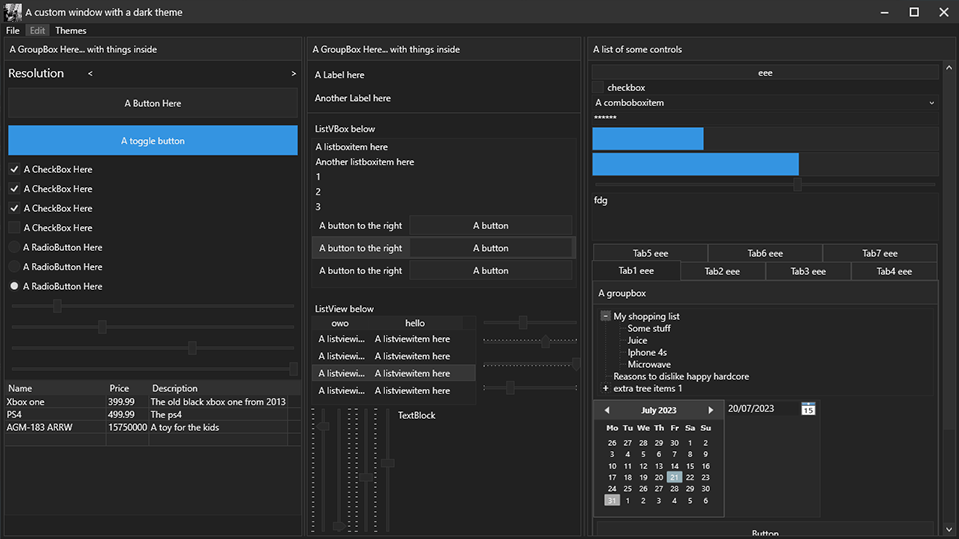
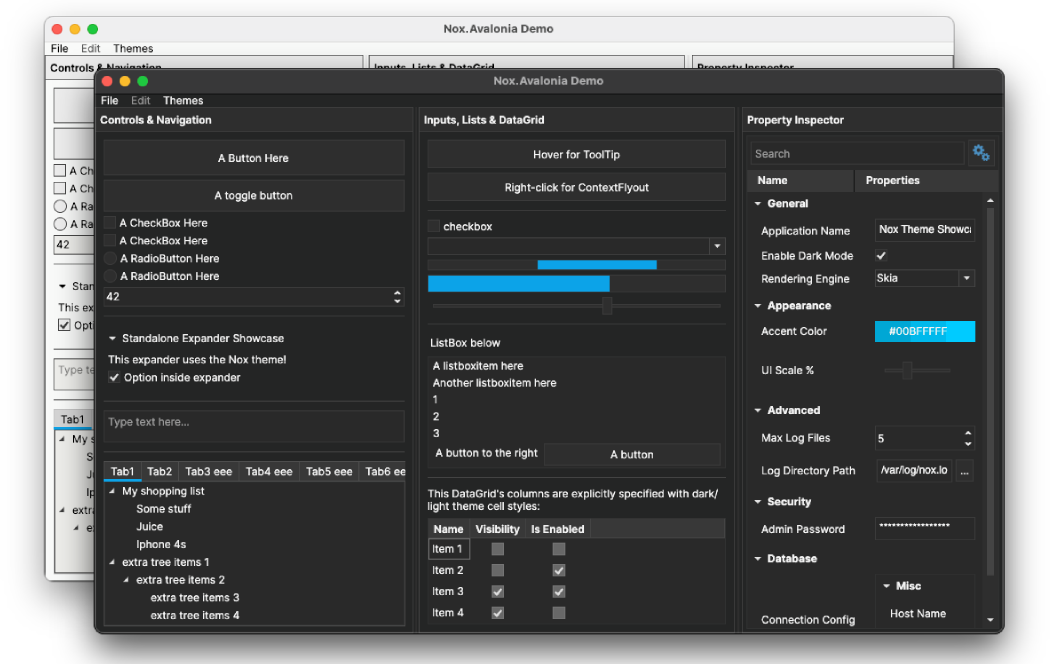
chore: update preview and library descriptions

diff --git a/README.md b/README.md
@@ -11,16 +11,23 @@
 </p>
 
 <p align="center">
-    A comprehensive, sleek, and modern dark theme for <b>Avalonia UI</b> applications!
+    A comprehensive, sleek, and modern theme for <b>Avalonia UI</b> applications!
     <br />
     Designed specifically for <b>Game Engines</b>, <b>Level & Asset Editors</b>, <b>IDEs</b>, and <b>Developer Tools</b>.
 </p>
 
 <p align="center">
-    <img src="preview.png" style="width: 95%;" />
+    <img src="preview.png" style="width: 100%;" />
 </p>
 
----
+### Packages Overview
+
+| Package Name                | Description                                        | Target Framework |
+| --------------------------- | -------------------------------------------------- | ---------------- |
+| `Nox.Avalonia`              | Core theme engine & standard controls              | `net10.0`        |
+| `Nox.Avalonia.Dock`         | Theme extension for `Dock.Avalonia`                | `net10.0`        |
+| `Nox.Avalonia.DataGrid`     | Theme extension for `Avalonia.Controls.DataGrid`   | `net10.0`        |
+| `Nox.Avalonia.PropertyGrid` | Theme extension for `bodong.Avalonia.PropertyGrid` | `net10.0`        |
 
 ### Getting Started
 
@@ -106,33 +113,6 @@ Add `<pg:NoxPropertyGridTheme />` to `App.axaml`:
     </Application.Styles>
 </Application>
 ```
-
-### XML Namespaces
-
-The Nox library exposes clean XML namespaces for XAML integration:
-
-| Prefix | Namespace / Assembly                                                         | Description                                                                                                                       |
-| ------ | ---------------------------------------------------------------------------- | --------------------------------------------------------------------------------------------------------------------------------- |
-| `nox`  | `clr-namespace:Nox.Avalonia;assembly=Nox.Avalonia`                           | Primary theme for core controls (`Button`, `TextBox`, `ComboBox`, `ListBox`, `GroupBox`, `Expander`, `Slider`, `CheckBox`, etc.). |
-| `dock` | `clr-namespace:Nox.Avalonia.Dock;assembly=Nox.Avalonia.Dock`                 | Docking layout control styles (`DockControl`, document tabs, tool windows, floating windows).                                     |
-| `dg`   | `clr-namespace:Nox.Avalonia.DataGrid;assembly=Nox.Avalonia.DataGrid`         | DataGrid control styles (`DataGrid`, `DataGridColumnHeader`, `DataGridCell`, `DataGridCheckBoxColumn`).                           |
-| `pg`   | `clr-namespace:Nox.Avalonia.PropertyGrid;assembly=Nox.Avalonia.PropertyGrid` | PropertyGrid control styles (`PropertyGrid`, category expanders, property cell editors).                                          |
-
-#### Included Demo Applications
-
-This repository contains 2 interactive reference applications:
-
-- **`Nox.Avalonia.Demo`** (`demo/Nox.Avalonia.Demo`): Showcases all core Nox controls, DataGrid, and PropertyGrid side-by-side in a responsive desktop window. Run with `dotnet run --project demo/Nox.Avalonia.Demo`.
-- **`Nox.Avalonia.Dock.Demo`** (`demo/Nox.Avalonia.Dock.Demo`): Showcases complete docking window manager integration (`DockControl`, document tabs, tool windows, floating windows). Run with `dotnet run --project demo/Nox.Avalonia.Dock.Demo`.
-
-### Packages Overview
-
-| Package Name                | Purpose                                            | Target Framework |
-| --------------------------- | -------------------------------------------------- | ---------------- |
-| `Nox.Avalonia`              | Core theme engine & standard controls              | `net10.0`        |
-| `Nox.Avalonia.Dock`         | Theme extension for `Dock.Avalonia`                | `net10.0`        |
-| `Nox.Avalonia.DataGrid`     | Theme extension for `Avalonia.Controls.DataGrid`   | `net10.0`        |
-| `Nox.Avalonia.PropertyGrid` | Theme extension for `bodong.Avalonia.PropertyGrid` | `net10.0`        |
 
 ### Contributors
 
